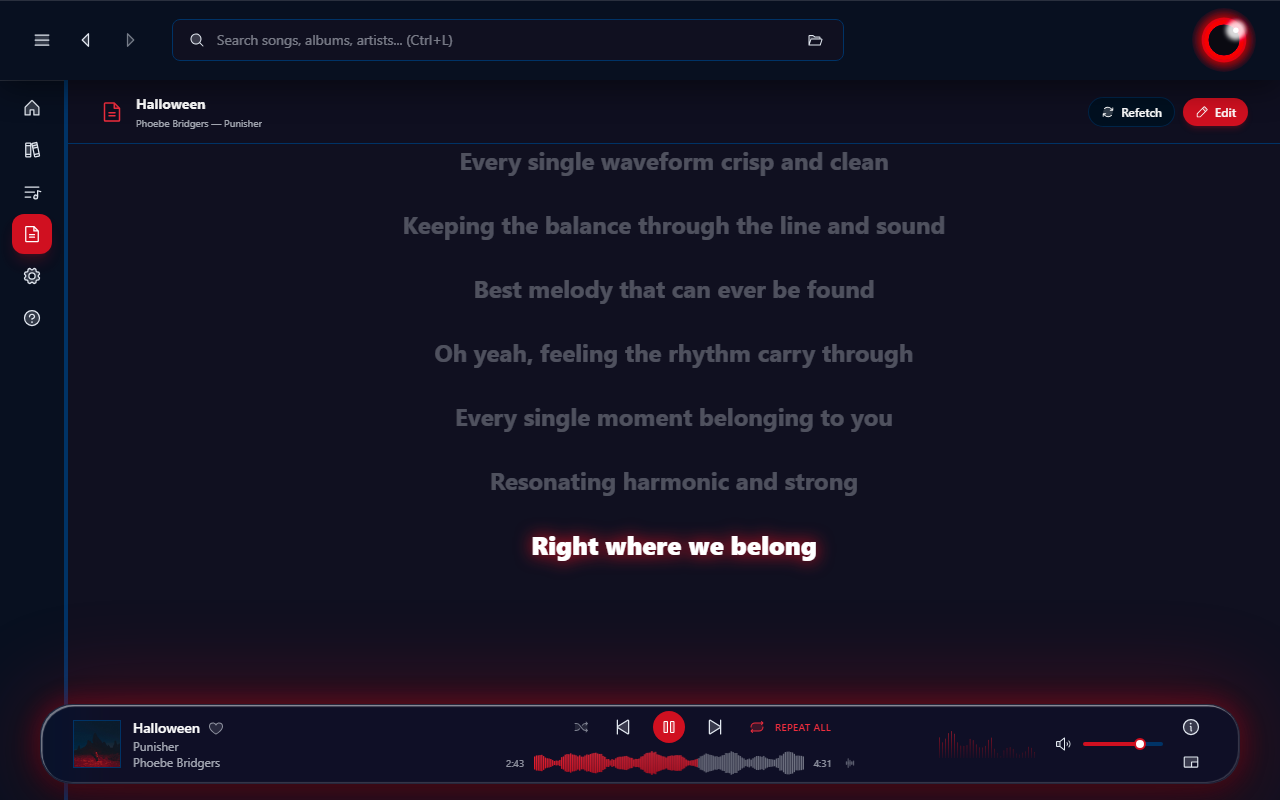
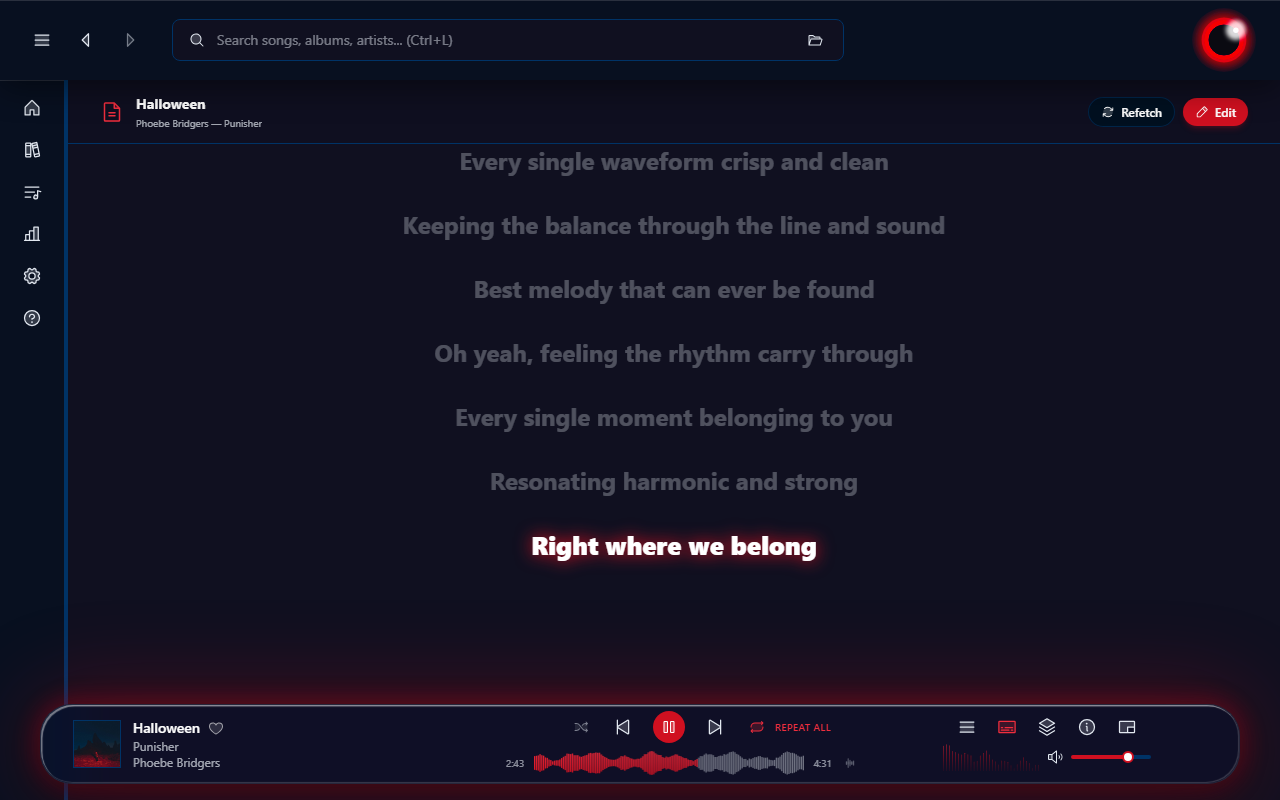
feat: add Stats screenshot capture, fix Walkthrough popover blocking captures
Adds get_stats_summary/get_listening_activity to the mock Tauri IPC bridge
with a deterministic seeded listening history, and a stats entry to
mock-config.json so bun run take-screenshots can capture the Personal Stats
view for the user guide (#897).

Also suppresses the first-launch Walkthrough tour during capture — it was
auto-starting on every screenshot (mockSettings never set
walkthrough_completed), covering the captured view with its popover.
Regenerates lyrics-EN/FR.png (now showing the toolbar icon, not the removed
sidebar entry) and adds stats-EN/FR.png.

Changed region(s): [[0.7188, 0.9062, 0.9375, 0.9688], [0.0, 0.25, 0.0625, 0.3438]]

diff --git a/scripts/tauri-ipc-mock.ts b/scripts/tauri-ipc-mock.ts
@@ -19,6 +19,8 @@ import type {
   RepeatMode,
   ShuffleMode,
   Song,
+  StatsRange,
+  StatsTopItem,
   Tag,
   TagCount,
   TagGroup,
@@ -190,6 +192,51 @@ function getIpcCallback(id: number | undefined): IpcCallback | undefined {
   let artistProfiles: ArtistProfile[] = library.artistProfiles ?? [];
   const featured = window.__LUMINOUS_MOCK_FEATURED__ ?? {};
   const featuredSong = featured.song ?? library.songs[0];
+
+  // Deterministic pseudo-random listening history for the Personal Stats
+  // screenshots (heatmap, top lists, time-of-day) — seeded so repeated
+  // `bun run take-screenshots` runs produce the same-looking capture instead
+  // of a different random shape every time. Not wired to any real backend
+  // stats table; get_listening_activity/get_stats_summary below just slice
+  // and aggregate this in-memory log the same way the real commands
+  // aggregate SQLite rows.
+  function mulberry32(seed: number): () => number {
+    return () => {
+      seed |= 0;
+      seed = (seed + 0x6d2b79f5) | 0;
+      let t = Math.imul(seed ^ (seed >>> 15), 1 | seed);
+      t = (t + Math.imul(t ^ (t >>> 7), 61 | t)) ^ t;
+      return ((t ^ (t >>> 14)) >>> 0) / 4294967296;
+    };
+  }
+
+  interface MockListenEvent {
+    played_at: number;
+    duration_secs: number;
+    song: Song;
+  }
+
+  const NOW_SEC = Math.floor(Date.now() / 1000);
+  const LISTEN_HISTORY_DAYS = 400;
+  const listenHistory: MockListenEvent[] = (() => {
+    if (library.songs.length === 0) return [];
+    const rng = mulberry32(42);
+    const events: MockListenEvent[] = [];
+    for (let dayOffset = 0; dayOffset < LISTEN_HISTORY_DAYS; dayOffset++) {
+      if (rng() < 0.22) continue; // some days have no listening at all
+      const playsToday = 1 + Math.floor(rng() * 6);
+      for (let i = 0; i < playsToday; i++) {
+        const song = library.songs[Math.floor(rng() * library.songs.length)];
+        const secondsIntoDay = Math.floor(rng() * 86400);
+        events.push({
+          played_at: NOW_SEC - dayOffset * 86400 - secondsIntoDay,
+          duration_secs: Math.max(30, Math.floor((song.length_nanosec || 180_000_000_000) / 1_000_000_000)),
+          song,
+        });
+      }
+    }
+    return events.sort((a, b) => a.played_at - b.played_at);
+  })();
 
   const callbacks: Record<number, (data: unknown) => void> = {};
   let nextCallbackId = 1;
@@ -594,6 +641,71 @@ function getIpcCallback(id: number | undefined): IpcCallback | undefined {
       app_version: 1,
       db_newer_than_app: false,
     }),
+
+    get_listening_activity: (args) => {
+      const days = Number(args.days ?? 98);
+      const cutoff = NOW_SEC - days * 86400;
+      return listenHistory
+        .filter((e) => e.played_at >= cutoff)
+        .map((e) => ({ played_at: e.played_at, duration_secs: e.duration_secs }));
+    },
+
+    get_stats_summary: (args) => {
+      const range = (args.range as StatsRange) ?? "7d";
+      const rangeDays = range === "7d" ? 7 : range === "28d" ? 28 : 365;
+      const inRange = listenHistory.filter((e) => e.played_at >= NOW_SEC - rangeDays * 86400);
+
+      const songCounts = new Map<string, { song: Song; count: number }>();
+      const albumCounts = new Map<string, { label: string; secondary: string | null; count: number }>();
+      const artistCounts = new Map<string, number>();
+      const genreCounts = new Map<string, number>();
+      for (const e of inRange) {
+        const song = e.song;
+        const songKey = String(song.id);
+        songCounts.set(songKey, { song, count: (songCounts.get(songKey)?.count ?? 0) + 1 });
+        const artist = song.album_artist || song.artist;
+        if (song.album) {
+          const albumKey = `${song.album}::${artist ?? ""}`;
+          const existing = albumCounts.get(albumKey);
+          albumCounts.set(albumKey, { label: song.album, secondary: artist ?? null, count: (existing?.count ?? 0) + 1 });
+        }
+        if (artist) artistCounts.set(artist, (artistCounts.get(artist) ?? 0) + 1);
+        if (song.genre) genreCounts.set(song.genre, (genreCounts.get(song.genre) ?? 0) + 1);
+      }
+
+      const top_songs: StatsTopItem[] = [...songCounts.entries()]
+        .sort((a, b) => b[1].count - a[1].count)
+        .slice(0, 10)
+        .map(([key, v]) => ({
+          key,
+          label: v.song.title ?? "Untitled",
+          secondary: v.song.artist ?? null,
+          play_count: v.count,
+          excluded: false,
+          album: v.song.album ?? null,
+        }));
+      const top_albums: StatsTopItem[] = [...albumCounts.entries()]
+        .sort((a, b) => b[1].count - a[1].count)
+        .slice(0, 10)
+        .map(([key, v]) => ({ key, label: v.label, secondary: v.secondary, play_count: v.count, excluded: false, album: null }));
+      const top_artists: StatsTopItem[] = [...artistCounts.entries()]
+        .sort((a, b) => b[1] - a[1])
+        .slice(0, 10)
+        .map(([key, count]) => ({ key, label: key, secondary: null, play_count: count, excluded: false, album: null }));
+      const top_genres: StatsTopItem[] = [...genreCounts.entries()]
+        .sort((a, b) => b[1] - a[1])
+        .slice(0, 10)
+        .map(([key, count]) => ({ key, label: key, secondary: null, play_count: count, excluded: false, album: null }));
+
+      return {
+        range,
+        top_songs,
+        top_albums,
+        top_artists,
+        top_genres,
+        play_timestamps: inRange.map((e) => e.played_at),
+      };
+    },
 
     get_library_stats: () => ({
       total_songs: library.songs.length,

diff --git a/scripts/take-screenshots.ts b/scripts/take-screenshots.ts
@@ -269,7 +269,10 @@ async function main() {
         custom_themes: "[]",
         active_tab: "${tab}",
         active_sub_tab: "${subTab}",
-        language: "${language}"
+        language: "${language}",
+        // Otherwise +layout.svelte auto-starts the first-launch Walkthrough
+        // tour, whose popover would cover every capture (see #897).
+        walkthrough_completed: "true"
       };
       window.mockPlaybackPositionSec = ${positionSeconds};
       window.localStorage.setItem("layout_immersiveMode", "${isImmersive ? 'true' : 'false'}");
